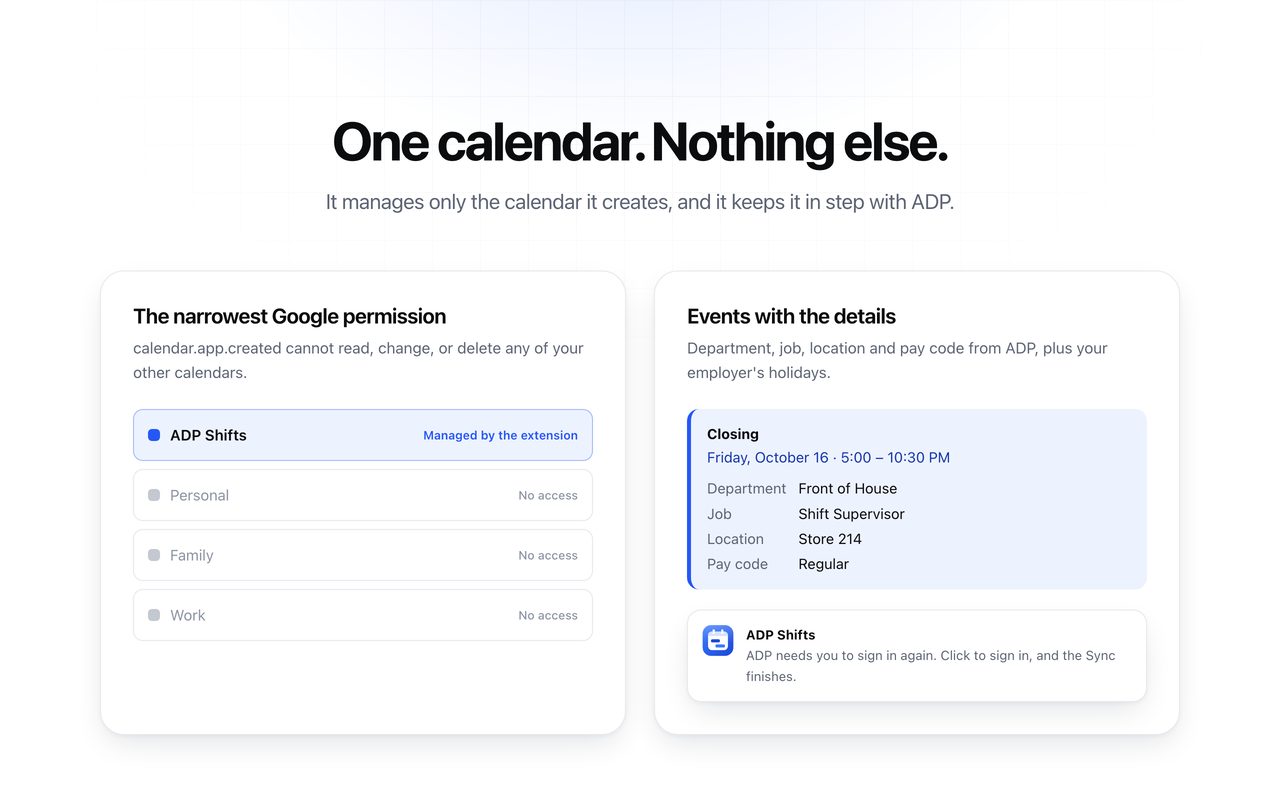
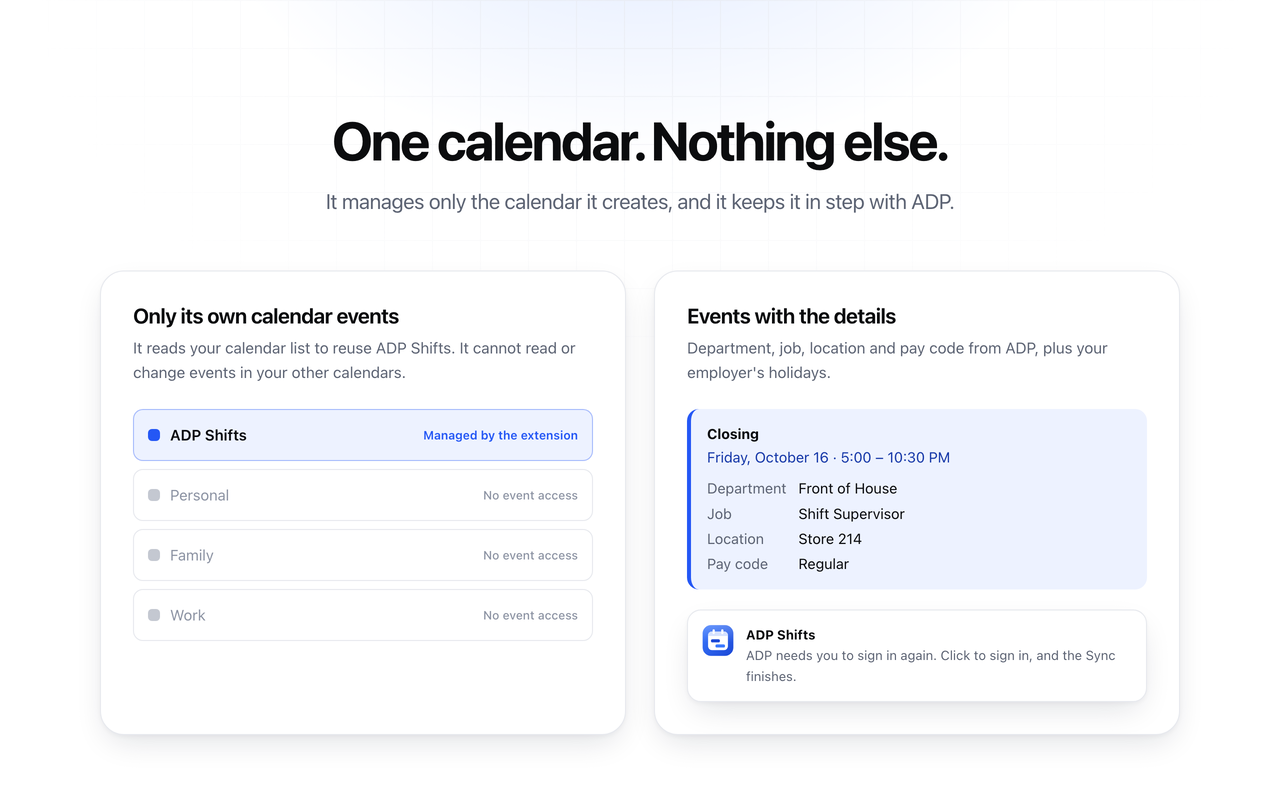
fix(calendar): reuse existing ADP calendar

diff --git a/packages/extension/test/google-calendar.test.ts b/packages/extension/test/google-calendar.test.ts
@@ -63,8 +63,67 @@ function memoryIds(initial: string | null = null) {
 }
 
 describe('Google Shift Calendar', () => {
+  it('recovers an existing calendar after local storage is lost, including hidden calendars on later pages', async () => {
+    const { fetchImpl, calls } = mockFetch([
+      { path: '/calendar/v3/users/me/calendarList', status: 200, body: {
+        items: [{ id: 'personal', summary: SHIFT_CALENDAR_NAME }], nextPageToken: 'next',
+      } },
+      { path: '/calendar/v3/users/me/calendarList', status: 200, body: { items: [
+        { id: 'existing', summary: SHIFT_CALENDAR_NAME, description: SHIFT_CALENDAR_DESCRIPTION, timeZone },
+      ] } },
+      { path: '/calendar/v3/calendars/existing', status: 200, body: {
+        id: 'existing', summary: SHIFT_CALENDAR_NAME, description: SHIFT_CALENDAR_DESCRIPTION, timeZone,
+      } },
+      { path: '/calendar/v3/calendars/existing', status: 200, body: {
+        id: 'existing', summary: SHIFT_CALENDAR_NAME, description: SHIFT_CALENDAR_DESCRIPTION, timeZone,
+      } },
+    ]);
+    const ids = memoryIds();
+    const calendar = createGoogleShiftCalendar(fetchImpl, 'token', ids);
+    expect((await calendar.findByName(SHIFT_CALENDAR_NAME))?.id).toBe('existing');
+    expect(ids.value).toBe('existing');
+    expect((await createGoogleShiftCalendar(fetchImpl, 'token', ids).findByName(SHIFT_CALENDAR_NAME))?.id).toBe('existing');
+    expect(new URL(calls[0]!.url).searchParams.get('showHidden')).toBe('true');
+    expect(new URL(calls[0]!.url).searchParams.get('minAccessRole')).toBe('owner');
+    expect(new URL(calls[1]!.url).searchParams.get('pageToken')).toBe('next');
+    expect(calls.every((call) => call.method === 'GET')).toBe(true);
+  });
+
+  it('stops on a lookup permission error instead of treating it as no calendar', async () => {
+    const { fetchImpl } = mockFetch([{ path: '/calendar/v3/users/me/calendarList', status: 403 }]);
+    await expect(createGoogleShiftCalendar(fetchImpl, 'token', memoryIds()).findByName(SHIFT_CALENDAR_NAME))
+      .rejects.toMatchObject({ reason: 'google-auth' });
+  });
+
+  it('chooses the same existing calendar when duplicates are returned in different orders', async () => {
+    for (const order of [['b', 'a'], ['a', 'b']]) {
+      const { fetchImpl, calls } = mockFetch([
+        { path: '/calendar/v3/users/me/calendarList', status: 200, body: { items: order.map((id) => ({
+          id, summary: SHIFT_CALENDAR_NAME, description: SHIFT_CALENDAR_DESCRIPTION, timeZone,
+        })) } },
+        { path: '/calendar/v3/calendars/a', status: 200, body: { id: 'a', summary: SHIFT_CALENDAR_NAME, timeZone } },
+      ]);
+      expect((await createGoogleShiftCalendar(fetchImpl, 'token', memoryIds()).findByName(SHIFT_CALENDAR_NAME))?.id).toBe('a');
+      expect(calls.every((call) => call.method === 'GET')).toBe(true);
+    }
+  });
+
+  it.each([403, 404])('does not adopt or replace a matching calendar that app.created cannot access (%s)', async (status) => {
+    const { fetchImpl } = mockFetch([
+      { path: '/calendar/v3/users/me/calendarList', status: 200, body: { items: [{
+        id: 'unrelated', summary: SHIFT_CALENDAR_NAME, description: SHIFT_CALENDAR_DESCRIPTION,
+      }] } },
+      { path: '/calendar/v3/calendars/unrelated', status },
+    ]);
+    const ids = memoryIds();
+    await expect(createGoogleShiftCalendar(fetchImpl, 'token', ids).findByName(SHIFT_CALENDAR_NAME))
+      .rejects.toMatchObject({ reason: status === 403 ? 'google-auth' : 'calendar-missing' });
+    expect(ids.value).toBeNull();
+  });
+
   it('creates a private calendar and inserts a Shift with local dateTime plus timeZone', async () => {
     const { fetchImpl, calls } = mockFetch([
+      { path: '/calendar/v3/users/me/calendarList', status: 200, body: { items: [] } },
       { path: '/calendar/v3/calendars', status: 200, body: { id: 'cal-1' } },
       { path: '/calendar/v3/calendars/cal-1/events', status: 200, body: { id: 'adpsshiftobj-4' } },
     ]);
@@ -94,24 +153,24 @@ describe('Google Shift Calendar', () => {
     });
     expect(ids.value).toBe('cal-1');
     expect(calls.map((call) => `${call.method} ${new URL(call.url).pathname}`)).toEqual([
+      'GET /calendar/v3/users/me/calendarList',
       'POST /calendar/v3/calendars',
       'POST /calendar/v3/calendars/cal-1/events',
     ]);
     expect(calls.every((call) => call.authorization === 'Bearer ya29.token')).toBe(true);
-    expect(calls[0]?.body).toEqual({
+    expect(calls[1]?.body).toEqual({
       summary: SHIFT_CALENDAR_NAME,
       description: SHIFT_CALENDAR_DESCRIPTION,
       timeZone,
     });
-    expect(calls[1]?.body).toEqual({
+    expect(calls[2]?.body).toEqual({
       id: 'adpsshiftobj-4',
       summary: 'Shift',
       start: { dateTime: '2026-10-05T17:00:00', timeZone },
       end: { dateTime: '2026-10-05T22:30:00', timeZone },
     });
     expect(JSON.stringify(calls)).not.toContain('/acl');
-    expect(JSON.stringify(calls)).not.toContain('calendarList');
-    expect(JSON.stringify(calls[1]?.body)).not.toMatch(/Z"|[+-]\d{2}:\d{2}/);
+    expect(JSON.stringify(calls[2]?.body)).not.toMatch(/Z"|[+-]\d{2}:\d{2}/);
   });
 
   it('finds the remembered Shift Calendar by id without listing calendars', async () => {
@@ -134,7 +193,10 @@ describe('Google Shift Calendar', () => {
   });
 
   it('forgets a remembered Shift Calendar that the user deleted', async () => {
-    const { fetchImpl } = mockFetch([{ path: '/calendar/v3/calendars/gone', status: 404, body: {} }]);
+    const { fetchImpl } = mockFetch([
+      { path: '/calendar/v3/calendars/gone', status: 404, body: {} },
+      { path: '/calendar/v3/users/me/calendarList', status: 200, body: { items: [] } },
+    ]);
     const ids = memoryIds('gone');
     const calendar = createGoogleShiftCalendar(fetchImpl, 'ya29.token', ids);
     await expect(calendar.findByName(SHIFT_CALENDAR_NAME)).resolves.toBeNull();

diff --git a/packages/extension/src/google-calendar.ts b/packages/extension/src/google-calendar.ts
@@ -5,7 +5,7 @@ import {
   type ShiftCalendarRecord,
   type ShiftCalendarWhen,
 } from '@adp-calendar/core';
-import { ShiftCalendarError } from '@adp-calendar/core/ports';
+import { SHIFT_CALENDAR_DESCRIPTION, ShiftCalendarError } from '@adp-calendar/core/ports';
 
 const API = 'https://www.googleapis.com/calendar/v3';
 
@@ -43,10 +43,6 @@ interface CalendarResource {
   timeZone?: string;
 }
 
-/**
- * calendar.app.created cannot list the user's calendars, so the Shift Calendar is found again by the id
- * remembered when it was created, not by searching for its name.
- */
 export function createGoogleShiftCalendar(
   fetchImpl: typeof fetch,
   accessToken: string,
@@ -54,9 +50,27 @@ export function createGoogleShiftCalendar(
 ): ShiftCalendar {
   return {
     async findByName(name) {
-      const calendarId = await calendarIds.load();
+      const rememberedId = await calendarIds.load();
+      let calendarId = rememberedId;
       if (!calendarId) {
-        return null;
+        const matches: string[] = [];
+        let pageToken: string | undefined;
+        do {
+          const params = new URLSearchParams({ minAccessRole: 'owner', showHidden: 'true', maxResults: '250' });
+          if (pageToken) params.set('pageToken', pageToken);
+          const body = await requestJson(fetchImpl, accessToken, `/users/me/calendarList?${params}`) as {
+            items?: CalendarResource[];
+            nextPageToken?: string;
+          };
+          for (const item of body.items ?? []) {
+            if (item.id && item.summary === name && item.description === SHIFT_CALENDAR_DESCRIPTION) {
+              matches.push(item.id);
+            }
+          }
+          pageToken = body.nextPageToken;
+        } while (pageToken);
+        calendarId = matches.sort()[0] ?? null;
+        if (!calendarId) return null;
       }
       let body: CalendarResource;
       try {
@@ -66,12 +80,14 @@ export function createGoogleShiftCalendar(
           `/calendars/${encodeURIComponent(calendarId)}`,
         )) as CalendarResource;
       } catch (error) {
-        if (error instanceof ShiftCalendarError && error.reason === 'calendar-missing') {
+        if (rememberedId && error instanceof ShiftCalendarError && error.reason === 'calendar-missing') {
           await calendarIds.clear();
-          return null;
+          return this.findByName(name);
         }
         throw error;
       }
+      // calendars.get under app.created verifies this is an app-created calendar before adopting it.
+      if (!rememberedId) await calendarIds.save(calendarId);
       return record(calendarId, body.summary ?? name, body.description ?? '', body.timeZone ?? '');
     },
     async create(calendar) {

diff --git a/site/privacy/index.html b/site/privacy/index.html
@@ -44,7 +44,7 @@
               <li>ADP Shifts runs entirely in your browser. There is no ADP Shifts server, account, or database.</li>
               <li>It reads your own schedule from ADP Workforce Now and writes it to one Google calendar that it creates.</li>
               <li>It never sees your ADP password and never reads, copies, or stores your ADP cookies.</li>
-              <li>It cannot read or change your other Google calendars.</li>
+              <li>It reads your calendar list to find ADP Shifts, but cannot read or change events in your other Google calendars.</li>
               <li>No analytics, no advertising, no selling or sharing of data. The developer never receives your data.</li>
             </ul>
           </section>
@@ -122,8 +122,9 @@
           <h2>4. Google user data</h2>
           <p>
             The extension requests the Google Calendar permission: <code>https://www.googleapis.com/auth/calendar.app.created</code>. This scope lets an app
-            create secondary calendars and manage only the calendars and events it created. It does not allow access to your primary calendar or
-            to any other calendar in your account.
+            create secondary calendars and manage only the calendars and events it created.
+            It also requests <code>https://www.googleapis.com/auth/calendar.calendarlist.readonly</code> to read calendar-list metadata
+            and recover its existing ADP Shifts calendar after reconnecting or reinstalling. This does not grant access to other calendars' events.
           </p>
           <p>
             It also requests <code>https://www.googleapis.com/auth/userinfo.email</code> to show the connected account's email address and

diff --git a/site/index.html b/site/index.html
@@ -240,8 +240,8 @@
               <div class="card__icon"><svg aria-hidden="true"><use href="#i-shield" /></svg></div>
               <h3>One calendar, nothing else</h3>
               <p>
-                Google grants only <code>calendar.app.created</code>, its narrowest Calendar permission. The extension manages the ADP Shifts
-                calendar and cannot see or change any other.
+                The extension manages only calendars it creates with <code>calendar.app.created</code>.
+                Read-only calendar-list access lets it find and reuse ADP Shifts after reconnecting or reinstalling, without reading other calendars' events.
               </p>
             </article>
             <article class="card">
@@ -387,8 +387,8 @@
             <details>
               <summary>Can it see or change my other calendars?</summary>
               <p>
-                No. Google grants it the <code>calendar.app.created</code> scope only, which limits access to calendars the extension itself created.
-                Your personal, work and shared calendars are out of reach.
+                It can read calendar-list metadata to find its existing ADP Shifts calendar.
+                Google limits event access to calendars the extension itself created, so it cannot read or change events in your other calendars.
               </p>
             </details>
             <details>

diff --git a/store/src/screenshot-3-scope.html b/store/src/screenshot-3-scope.html
@@ -6,13 +6,13 @@
   </div>
   <div class="split">
     <div class="panel">
-      <h3>The narrowest Google permission</h3>
-      <p>calendar.app.created cannot read, change, or delete any of your other calendars.</p>
+      <h3>Only its own calendar events</h3>
+      <p>It reads your calendar list to reuse ADP Shifts. It cannot read or change events in your other calendars.</p>
       <div class="scope">
         <div class="scope__row scope__row--yes"><i class="check" style="--c: #2457f5"></i>ADP Shifts<span>Managed by the extension</span></div>
-        <div class="scope__row scope__row--no"><i class="check" style="--c: #c4c8d1"></i>Personal<span>No access</span></div>
-        <div class="scope__row scope__row--no"><i class="check" style="--c: #c4c8d1"></i>Family<span>No access</span></div>
-        <div class="scope__row scope__row--no"><i class="check" style="--c: #c4c8d1"></i>Work<span>No access</span></div>
+        <div class="scope__row scope__row--no"><i class="check" style="--c: #c4c8d1"></i>Personal<span>No event access</span></div>
+        <div class="scope__row scope__row--no"><i class="check" style="--c: #c4c8d1"></i>Family<span>No event access</span></div>
+        <div class="scope__row scope__row--no"><i class="check" style="--c: #c4c8d1"></i>Work<span>No event access</span></div>
       </div>
     </div>
     <div class="panel">

diff --git a/packages/extension/src/google-auth.ts b/packages/extension/src/google-auth.ts
@@ -1,4 +1,5 @@
 export const GOOGLE_CALENDAR_SCOPE = 'https://www.googleapis.com/auth/calendar.app.created';
+export const GOOGLE_CALENDAR_LIST_SCOPE = 'https://www.googleapis.com/auth/calendar.calendarlist.readonly';
 
 export const GOOGLE_EMAIL_SCOPE = 'https://www.googleapis.com/auth/userinfo.email';
 
@@ -22,7 +23,7 @@ export function buildAuthUrl(input: { clientId: string; redirectUri: string; int
   url.searchParams.set('client_id', input.clientId);
   url.searchParams.set('response_type', 'token');
   url.searchParams.set('redirect_uri', input.redirectUri);
-  url.searchParams.set('scope', `${GOOGLE_CALENDAR_SCOPE} ${GOOGLE_EMAIL_SCOPE}`);
+  url.searchParams.set('scope', `${GOOGLE_CALENDAR_SCOPE} ${GOOGLE_CALENDAR_LIST_SCOPE} ${GOOGLE_EMAIL_SCOPE}`);
   if (input.email) url.searchParams.set('login_hint', input.email);
   if (!input.interactive) {
     url.searchParams.set('prompt', 'none');

diff --git a/packages/extension/test/google-auth.test.ts b/packages/extension/test/google-auth.test.ts
@@ -35,7 +35,7 @@ describe('Google sign-in', () => {
       expect(parsed.searchParams.get('client_id')).toBe(clientId);
       expect(parsed.searchParams.get('response_type')).toBe('token');
       expect(parsed.searchParams.get('redirect_uri')).toBe(redirectUri);
-      expect(parsed.searchParams.get('scope')).toBe('https://www.googleapis.com/auth/calendar.app.created https://www.googleapis.com/auth/userinfo.email');
+      expect(parsed.searchParams.get('scope')).toBe('https://www.googleapis.com/auth/calendar.app.created https://www.googleapis.com/auth/calendar.calendarlist.readonly https://www.googleapis.com/auth/userinfo.email');
       expect(parsed.searchParams.get('client_secret')).toBeNull();
       expect(parsed.searchParams.get('access_type')).toBeNull();
       expect(url).not.toContain('refresh_token');

diff --git a/docs/adr/0003-google-calendar-via-web-auth-flow-and-app-created-scope.md b/docs/adr/0003-google-calendar-via-web-auth-flow-and-app-created-scope.md
@@ -1,9 +1,11 @@
 # Google Calendar via launchWebAuthFlow and the calendar.app.created scope
 
-The extension writes only to a Shift Calendar it creates, using the `calendar.app.created` scope, so it can never read or delete the user's other calendars and Sync may freely delete anything it finds there. It authorizes with `chrome.identity.launchWebAuthFlow` and silent `prompt=none` renewal instead of `getAuthToken`, because the tool targets any Tenant's employees and `getAuthToken` works only in Google Chrome, not other Chromium browsers. No refresh token or client secret is stored. The non-sensitive `userinfo.email` scope identifies the connected Google account in setup and supplies a login hint for renewal. Explicit connection shows the account chooser; renewal rejects a different account. Signing out clears the token, email, calendar ID, and Sync history while retaining the ADP Position and time zone.
+The extension writes only to a Shift Calendar it creates, using the `calendar.app.created` scope, so it can never read or delete events in the user's other calendars and Sync may freely delete anything it finds there. Read-only `calendar.calendarlist.readonly` access recovers the existing Shift Calendar when its local ID is lost. It authorizes with `chrome.identity.launchWebAuthFlow` and silent `prompt=none` renewal instead of `getAuthToken`, because the tool targets any Tenant's employees and `getAuthToken` works only in Google Chrome, not other Chromium browsers. No refresh token or client secret is stored. The non-sensitive `userinfo.email` scope identifies the connected Google account in setup and supplies a login hint for renewal. Explicit connection shows the account chooser; renewal rejects a different account. Signing out clears the token, email, calendar ID, and Sync history while retaining the ADP Position and time zone.
 
 ## Consequences
 
-Google Auth Platform classifies `calendar.app.created` as non-sensitive (confirmed in the project's Data Access page on 2026-10-04). Public distribution requires publishing the OAuth app to Production. The app's logo requires branding verification, including a homepage and privacy policy on a verified domain; sensitive-scope verification and its demo video are not required for this scope.
+Google Auth Platform classifies `calendar.app.created` and `calendar.calendarlist.readonly` as non-sensitive (calendar-list scope added and confirmed in the project's Data Access page on 2026-10-09). Public distribution requires publishing the OAuth app to Production. Existing users need to authorize the added scope via Connect Google; a token without list access must fail lookup rather than create a duplicate calendar.
 
-The scope does not allow listing the user's calendars (`calendarList.list` returns 403), so the extension remembers the Shift Calendar's id when it creates it and reads it back with `calendars.get`. If that id is lost (Disconnect, reinstall), the next Sync creates a new Shift Calendar and the old one stays in the user's account.
+The extension reads the remembered ID with `calendars.get`. When absent or deleted, it searches all calendar-list pages, including hidden owned calendars, for the Shift Calendar name and managed description. If previous versions created duplicates, it picks the lowest ID deterministically and preserves the others' history. Before adopting a discovered calendar, `calendars.get` verifies access under `calendar.app.created`; calendar-list access alone cannot authorize event reconciliation. Lookup errors stop Sync. Only a successful search without a match allows creation.
+
+Calendar lookup followed by creation is not atomic across separate browser installations. The background queue serializes creation within one extension instance; simultaneous first Syncs on separate devices can still race. Renaming or changing the managed description prevents recovery after local ID loss.

diff --git a/store/OAUTH.md b/store/OAUTH.md
@@ -1,6 +1,6 @@
 # Google OAuth verification
 
-`calendar.app.created` is **non-sensitive**, as confirmed in Google Auth Platform's Data Access page on 2026-10-04 (ADR 0003). Publish the OAuth app to Production so users beyond the test-user list can connect. The app logo requires branding verification; this scope does not require sensitive-scope verification or a demo video.
+`calendar.app.created` and `calendar.calendarlist.readonly` are **non-sensitive**, as confirmed in Google Auth Platform's Data Access page (calendar-list scope added on 2026-10-09; ADR 0003). Publish the OAuth app to Production so users beyond the test-user list can connect. The app logo requires branding verification.
 
 ## 1. Own the domain
 
@@ -35,22 +35,22 @@ The homepage already meets Google's homepage rules: it describes what the app do
 
 ## 4. Data access (scopes)
 
-Add `https://www.googleapis.com/auth/calendar.app.created` and `https://www.googleapis.com/auth/userinfo.email`.
+Add `https://www.googleapis.com/auth/calendar.app.created`, `https://www.googleapis.com/auth/calendar.calendarlist.readonly`, and `https://www.googleapis.com/auth/userinfo.email`.
 The email scope displays the connected account and pins silent renewal to it; it does not provide Gmail access.
 
 Scope justification:
 
 ```text
-ADP Shifts copies the user's ADP Workforce Now work schedule into Google Calendar. It needs to create one secondary calendar named "ADP Shifts" and then create, update, and delete the events in that calendar so it matches the user's schedule. calendar.app.created is the narrowest scope that allows this: the app cannot read or modify the user's primary calendar or any calendar it did not create. All processing happens in the user's browser; no data is sent to any server we operate.
+ADP Shifts copies the user's ADP Workforce Now work schedule into Google Calendar. calendar.app.created allows it to create and manage its own secondary calendar. calendar.calendarlist.readonly lets it recover that calendar after reconnecting or reinstalling, avoiding duplicates. It cannot read or modify events in calendars it did not create. All processing happens in the user's browser; no data is sent to any server we operate.
 ```
 
 ## 5. Optional demo video
 
-A video is not required for this non-sensitive scope. If Google or the store reviewer specifically requests a demonstration, record an unlisted video (two to three minutes). Show, in order:
+If verification of the added scope or the store reviewer requires a demonstration, record an unlisted video (two to three minutes). Show, in order:
 
 1. The extension installed in Chrome, with the setup page open.
 2. Signing in to ADP Workforce Now and opening Calendar. The setup page shows "Position captured."
-3. Clicking **Connect Google**. Pause on the consent screen so the browser address bar shows the OAuth `client_id`, and the scope list shows secondary-calendar permission and email access.
+3. Clicking **Connect Google**. Pause on the consent screen so the browser address bar shows the OAuth `client_id`, and the scope list shows secondary-calendar permission, read-only calendar-list access, and email access.
 4. Clicking **Sync now**. Switch to Google Calendar and show the new "ADP Shifts" calendar with the synced shifts, and that other calendars are unchanged.
 5. Opening one event to show the details.
 6. Settings › **Disconnect and clear data**, then the app gone from https://myaccount.google.com/permissions.

diff --git a/store/LISTING.md b/store/LISTING.md
@@ -52,7 +52,7 @@ WHAT YOU GET
 
 PRIVATE BY DESIGN
 • Never asks for your ADP password. It uses the session already in your browser and never copies your cookies.
-• Uses Google's narrowest Calendar permission (calendar.app.created). It can manage only the calendar it creates and cannot see or change your other calendars.
+• Manages only calendars it creates (calendar.app.created). Read-only calendar-list access finds its existing calendar after reconnecting or reinstalling; it cannot read or change events in your other calendars.
 • Reads your Google email only to identify the connected account in setup.
 • No servers. Your schedule goes from ADP to Google directly from your browser.
 • No analytics, no ads, no tracking. Nothing is sold or shared.
